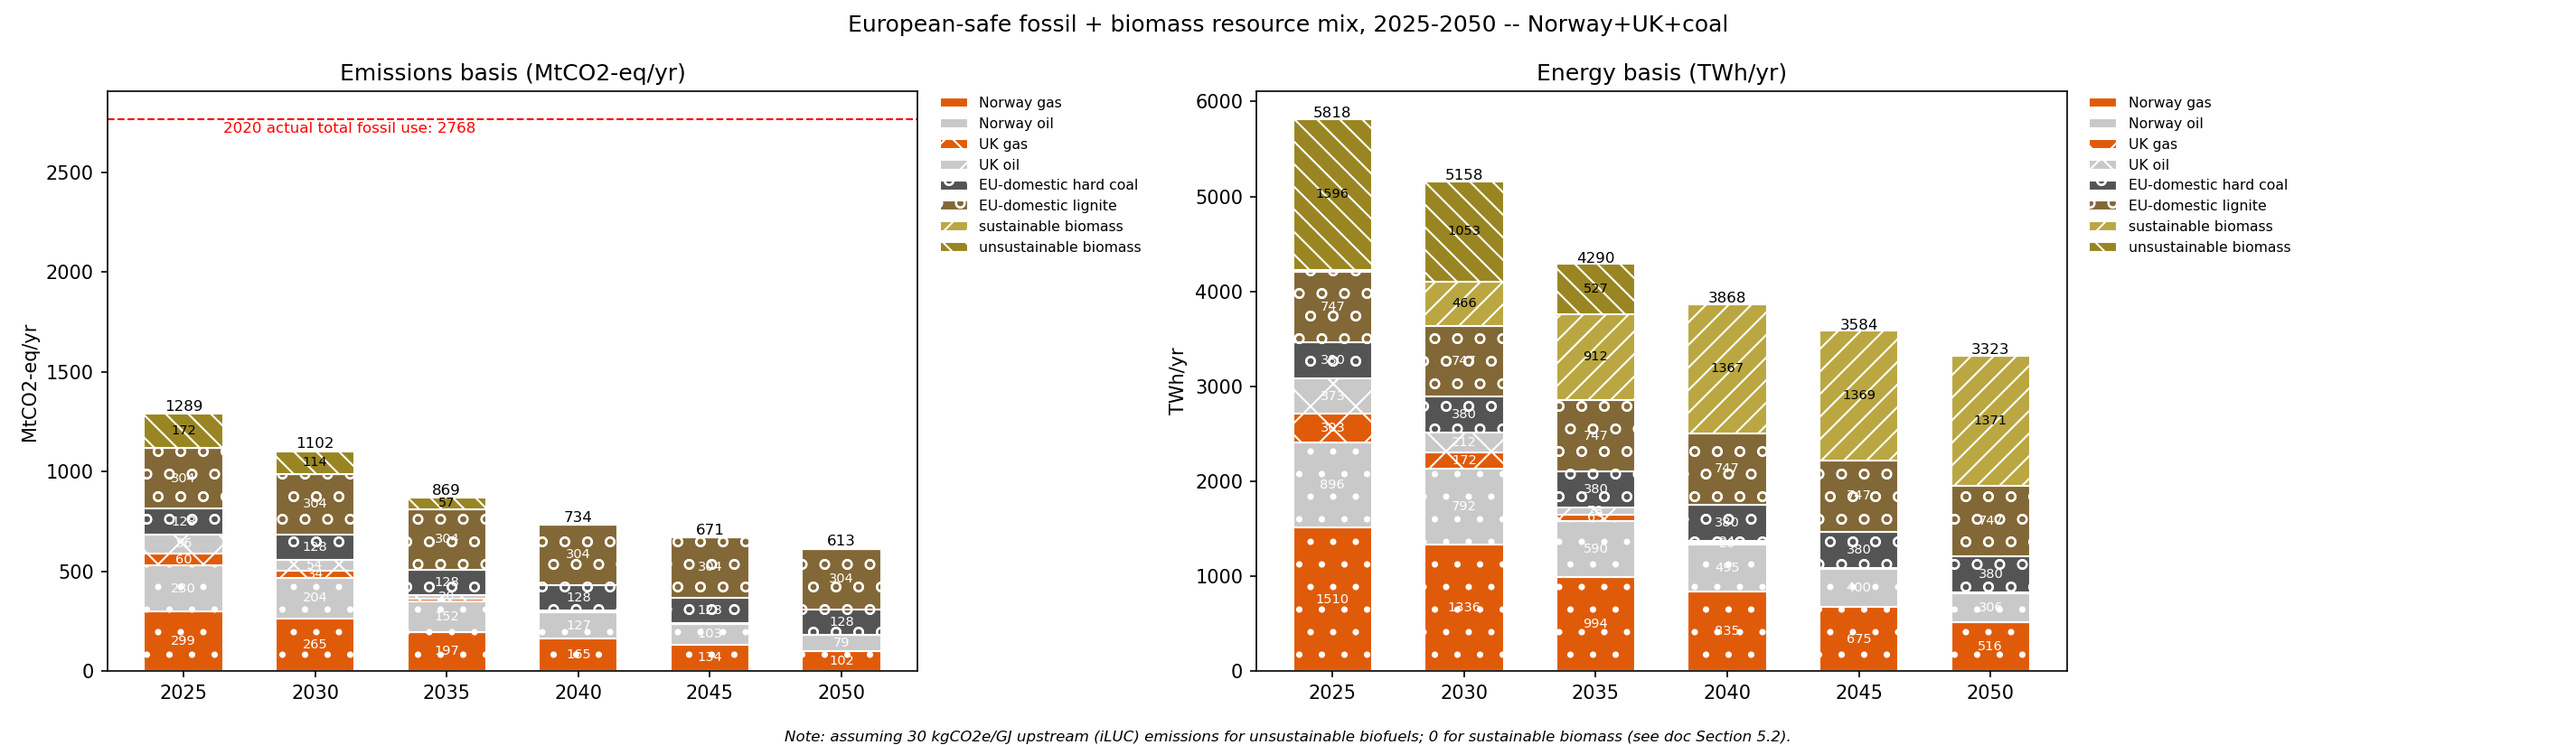
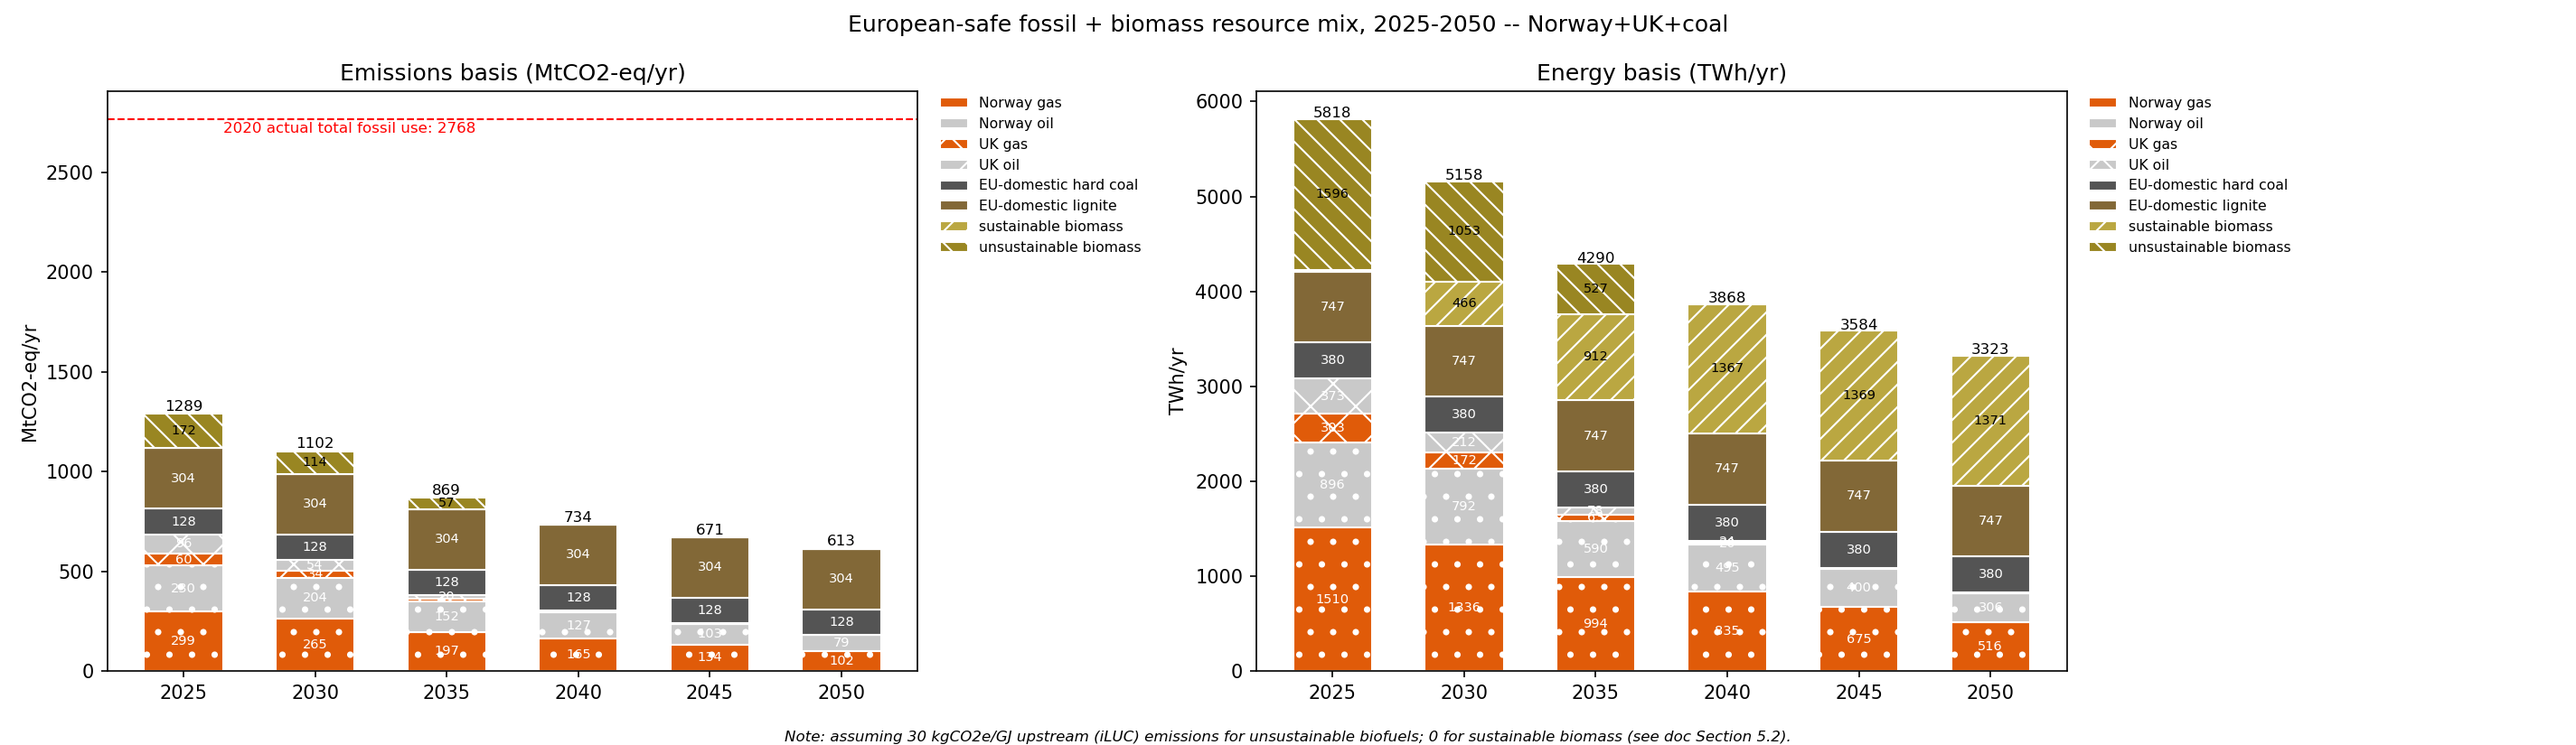
Document Section 5.4, fix stale section numbers, drop EU-domestic hatch
- Fixed code comments that referenced "Section 4.5"/"Section 4.6" for
  biomass/gas-oil-split -- those ended up as "Section 5"/"Section 5.4" in
  the actual doc, comments were never updated to match.
- Added doc Section 5.4 documenting the new per-fuel/per-region mix chart
  split (Norway/UK gas-oil energy-share derivation, all-six-years biomass
  table) that was implemented but not yet written up.
- Removed the hatch pattern from EU-domestic coal/lignite segments --
  nothing else on the chart needs distinguishing from "EU-domestic", so a
  hatch there added visual noise without conveying information. Norway
  (dots) and UK (cross-hatch) keep their hatches since they do need to be
  told apart from each other.

Claude-Session: https://claude.ai/code/session_01KkHwmFFdgK5T1XFbFHA5SA

diff --git a/text_docs/scripts/build_fossil_supply_security.py b/text_docs/scripts/build_fossil_supply_security.py
@@ -122,7 +122,7 @@ def nouk_mtco2(year):
     return no_mtco2(year) + uk_mtco2(year)
 
 # Native-energy (MWh) versions of the same two components, for the
-# energy-basis mix panel (Section 4.5) -- same lookup/decay shape, just
+# energy-basis mix panel (Section 5) -- same lookup/decay shape, just
 # without the CO2-intensity multiplication.
 def no_energy_mwh(year):
     if year in NO_SCM_OE:
@@ -142,7 +142,7 @@ def uk_energy_mwh(year):
     return UK_E0_TWH * (1 + UK_M * t) * np.exp(-UK_M * t) * 1e6  # -> MWh
 
 # ---------------------------------------------------------------------------
-# Gas/oil split for Norway and UK (added 2026-09-01, see doc Section 4.6),
+# Gas/oil split for Norway and UK (added 2026-09-01, see doc Section 5.4),
 # for the per-fuel-coloured mix chart. Both back out an ENERGY-share
 # fraction from the blended intensity already chosen above, rather than
 # introducing new unsourced per-fuel data -- the fraction is held constant
@@ -228,12 +228,12 @@ def lignite_energy_mwh(year):
 # ---------------------------------------------------------------------------
 # Per-fuel colour (matching the results/ folder's plots, config/plotting.
 # default.yaml tech_colors) + per-region hatch pattern (added 2026-09-01,
-# see doc Section 4.6), for the mix chart: colour identifies the FUEL,
+# see doc Section 5.4), for the mix chart: colour identifies the FUEL,
 # hatch identifies the COUNTRY/REGION it comes from. Region hatches are
 # deliberately different symbols from the biomass sustainability hatches
 # ("//" / "\\") used on the same chart, so the two hatch "dimensions"
 # (origin vs. sustainability) don't visually collide.
-REGION_HATCH = {"Norway": ".", "UK": "x", "EU-domestic": "o"}
+REGION_HATCH = {"Norway": ".", "UK": "x", "EU-domestic": ""}  # EU-domestic: no need to distinguish, solid fill
 FUEL_COMPONENTS = {
     "Norway gas": (no_gas_mtco2, no_gas_energy_mwh, TECH_COLORS["gas"], REGION_HATCH["Norway"]),
     "Norway oil": (no_oil_mtco2, no_oil_energy_mwh, TECH_COLORS["oil"], REGION_HATCH["Norway"]),
@@ -245,7 +245,7 @@ FUEL_COMPONENTS = {
 
 # ---------------------------------------------------------------------------
 # Biomass potential, sustainable vs unsustainable (added 2026-09-01, see doc
-# Section 4.5). Source: resources/base_myopic_50_8h/biomass_potentials_s_50_
+# Section 5). Source: resources/base_myopic_50_8h/biomass_potentials_s_50_
 # {year}.csv on the cluster (this fork's own biomass-potential-building
 # pipeline, summed across all 50 clustered nodes). "Sustainable" = solid
 # biomass + biogas columns; "unsustainable" = unsustainable solid biomass +
@@ -263,7 +263,7 @@ BIOMASS_POTENTIAL_TWH = {
 }
 
 # Upstream/indirect-land-use-change emissions proxy for unsustainable
-# biomass (see doc Section 4.5 for full sourcing): EU RED II Annex VIII /
+# biomass (see doc Section 5 for full sourcing): EU RED II Annex VIII /
 # Delegated Regulation (EU) 2019/807 default iLUC factors span roughly
 # 12-55 gCO2eq/MJ depending on feedstock; 30 is a general mid-range proxy
 # for now, not a per-feedstock estimate. Sustainable biomass (forest
@@ -347,7 +347,7 @@ def build_variant(name, ceiling_fn, mix_components, out_prefix, energy_component
     plt.close(fig)
 
     # --- 2050 mix breakdown: two panels, MtCO2-eq (left) and TWh (right) ---
-    # Biomass (sustainable + unsustainable potential, see doc Section 4.5)
+    # Biomass (sustainable + unsustainable potential, see doc Section 5)
     # is added as additional, hatched stacked segments on BOTH panels --
     # visually distinct from the fossil/coal components since it represents
     # a different kind of quantity (a non-fossil alternative/substitute,

diff --git a/text_docs/text/fossil_supply_security_methodology.md b/text_docs/text/fossil_supply_security_methodology.md
@@ -557,6 +557,66 @@ underlying volume goes to zero. The energy-basis panel of each
 ~1370 TWh/yr of sustainable potential by 2050) even though the
 emissions-basis panel shows almost nothing by 2050.
 
+### 5.4. Per-fuel, per-region split for the mix chart (added 2026-09-01)
+
+The mix charts now show all six horizons (2025-2050), not just the
+2025/2050 endpoints, and split each region into its underlying fuels
+(Norway gas/oil, UK gas/oil, EU-domestic hard coal/lignite) instead of one
+combined bar per region. Colour identifies the **fuel** (this fork's own
+`config/plotting.default.yaml` `tech_colors` — the same palette the
+`results/` folder's plots use, so the two sets of figures are visually
+consistent), hatch identifies the **country/region** (Norway = dots, UK =
+cross-hatch, EU-domestic = solid/no hatch, since there is nothing else
+EU-domestic to distinguish it from on this chart — deliberately different
+symbols (for Norway/UK) from
+the biomass sustainability hatches, `//`/`\\`, used on the same chart, so
+the two hatch "dimensions" don't visually collide).
+
+**Norway's gas/oil split** is backed out of the blended intensity already
+chosen in Section 4.1 (`NO_BLENDED_INTENSITY = 0.22` tCO2/MWh) rather than
+introducing new unsourced per-fuel production data: solving
+`0.22 = x·0.198 + (1-x)·0.2571` for the gas energy-share `x` gives
+**62.8% gas / 37.2% oil by energy**, held constant across all years (the
+blend itself was never assumed to shift over time).
+
+**UK's gas/oil split** reuses the same 218 Mt oil / 2060 TWh gas
+cumulative remaining-reserve split already used to build
+`UK_BLENDED_INTENSITY` (Section 4.2): **55.2% oil / 44.8% gas by energy**.
+This assumes oil and gas deplete at the same relative rate under the
+single decay curve fitted to the *combined* boe/d rate — a simplification,
+since in reality the reserve mix could shift over 2025-2050 (e.g. if gas
+fields deplete faster than oil fields or vice versa); no separate
+oil-only/gas-only decay data was found to check this against.
+
+**EU-domestic coal** was already split into hard coal (127.8 MtCO2-eq)
+and lignite (303.8 MtCO2-eq) with their own model intensities in Section
+4.3 — the mix chart now simply displays that existing split rather than
+combining it into one segment.
+
+**Biomass potential volumes, all six years** (extending Section 5.3's
+2025/2050-only table): same source
+(`resources/base_myopic_50_8h/biomass_potentials_s_50_{year}.csv`), now
+read for every horizon.
+
+| Year | Sustainable (TWh) | Unsustainable (TWh) |
+|-----:|------:|------:|
+| 2025 | 13.6 | 1595.7 |
+| 2030 | 465.6 | 1053.2 |
+| 2035 | 912.2 | 526.6 |
+| 2040 | 1366.7 | 0.0 |
+| 2045 | 1368.9 | 0.0 |
+| 2050 | 1371.1 | 0.0 |
+
+This fills in the transition shape only sketched by the two endpoints
+before: unsustainable potential declines roughly linearly 2025-2040
+(reaching exactly zero at 2040, not gradually approaching it), while
+sustainable potential grows to fill the gap and plateaus from 2040
+onward.
+
+Each `_mix_2050.png` figure also now carries an on-figure note stating the
+30 kgCO2e/GJ unsustainable-biomass assumption directly (Section 5.2),
+rather than requiring the reader to consult this document separately.
+
 ## 6. Open items / next steps
 
 - **Re-verify the RED II Annex VIII iLUC factor table** (Section 5.2)
